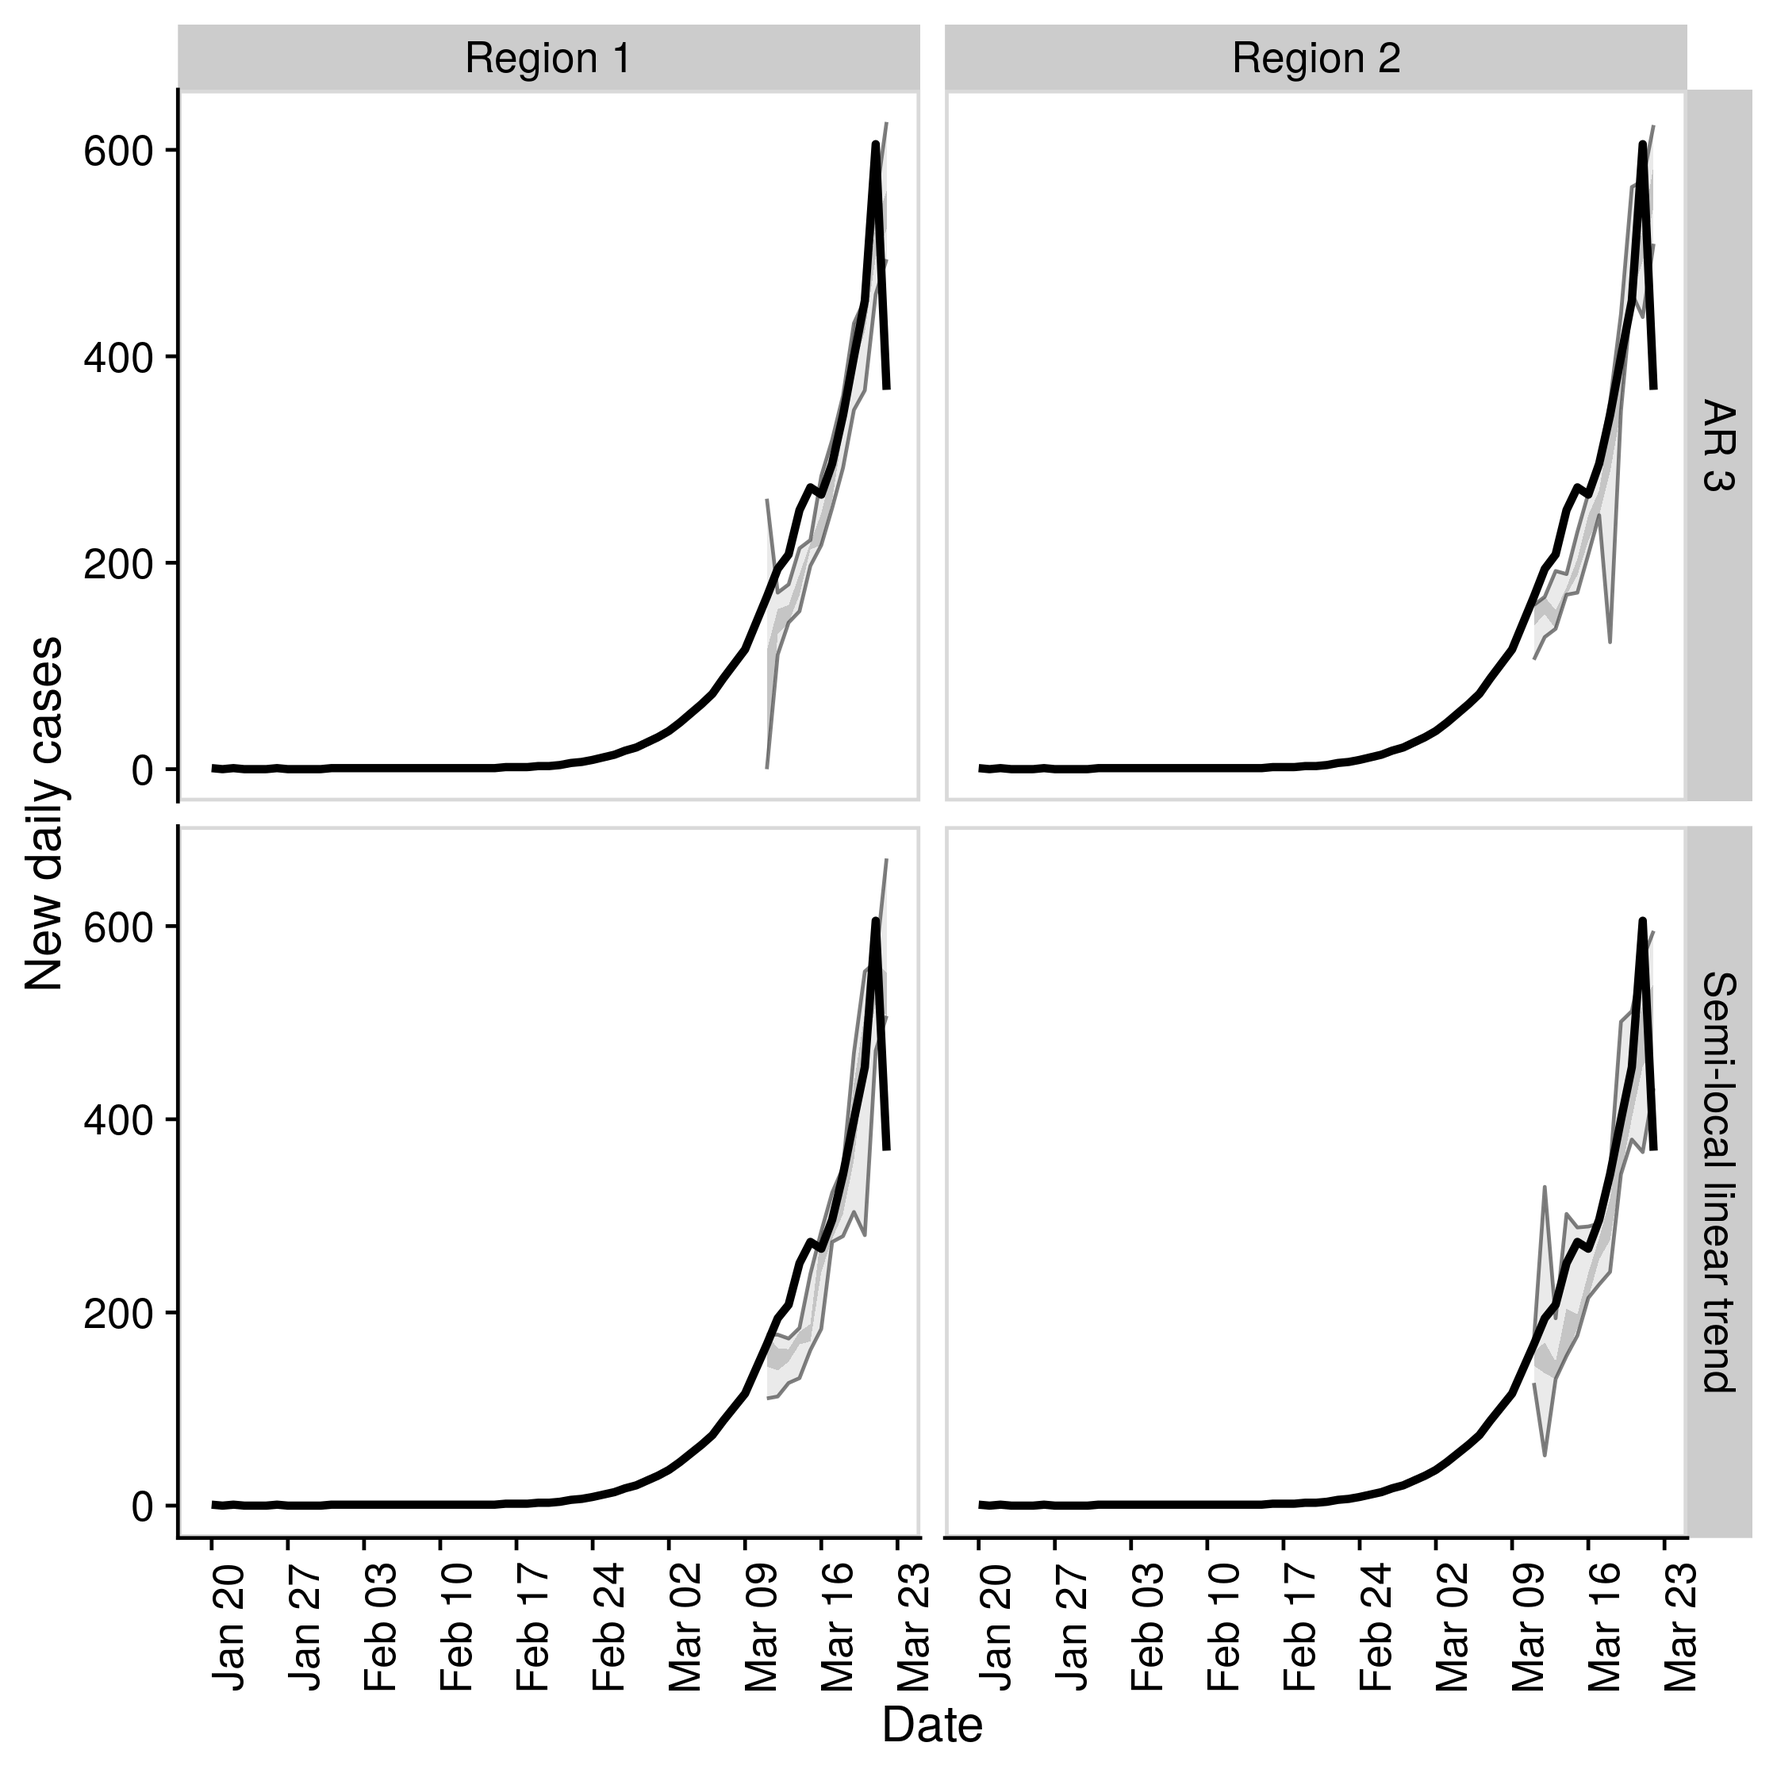
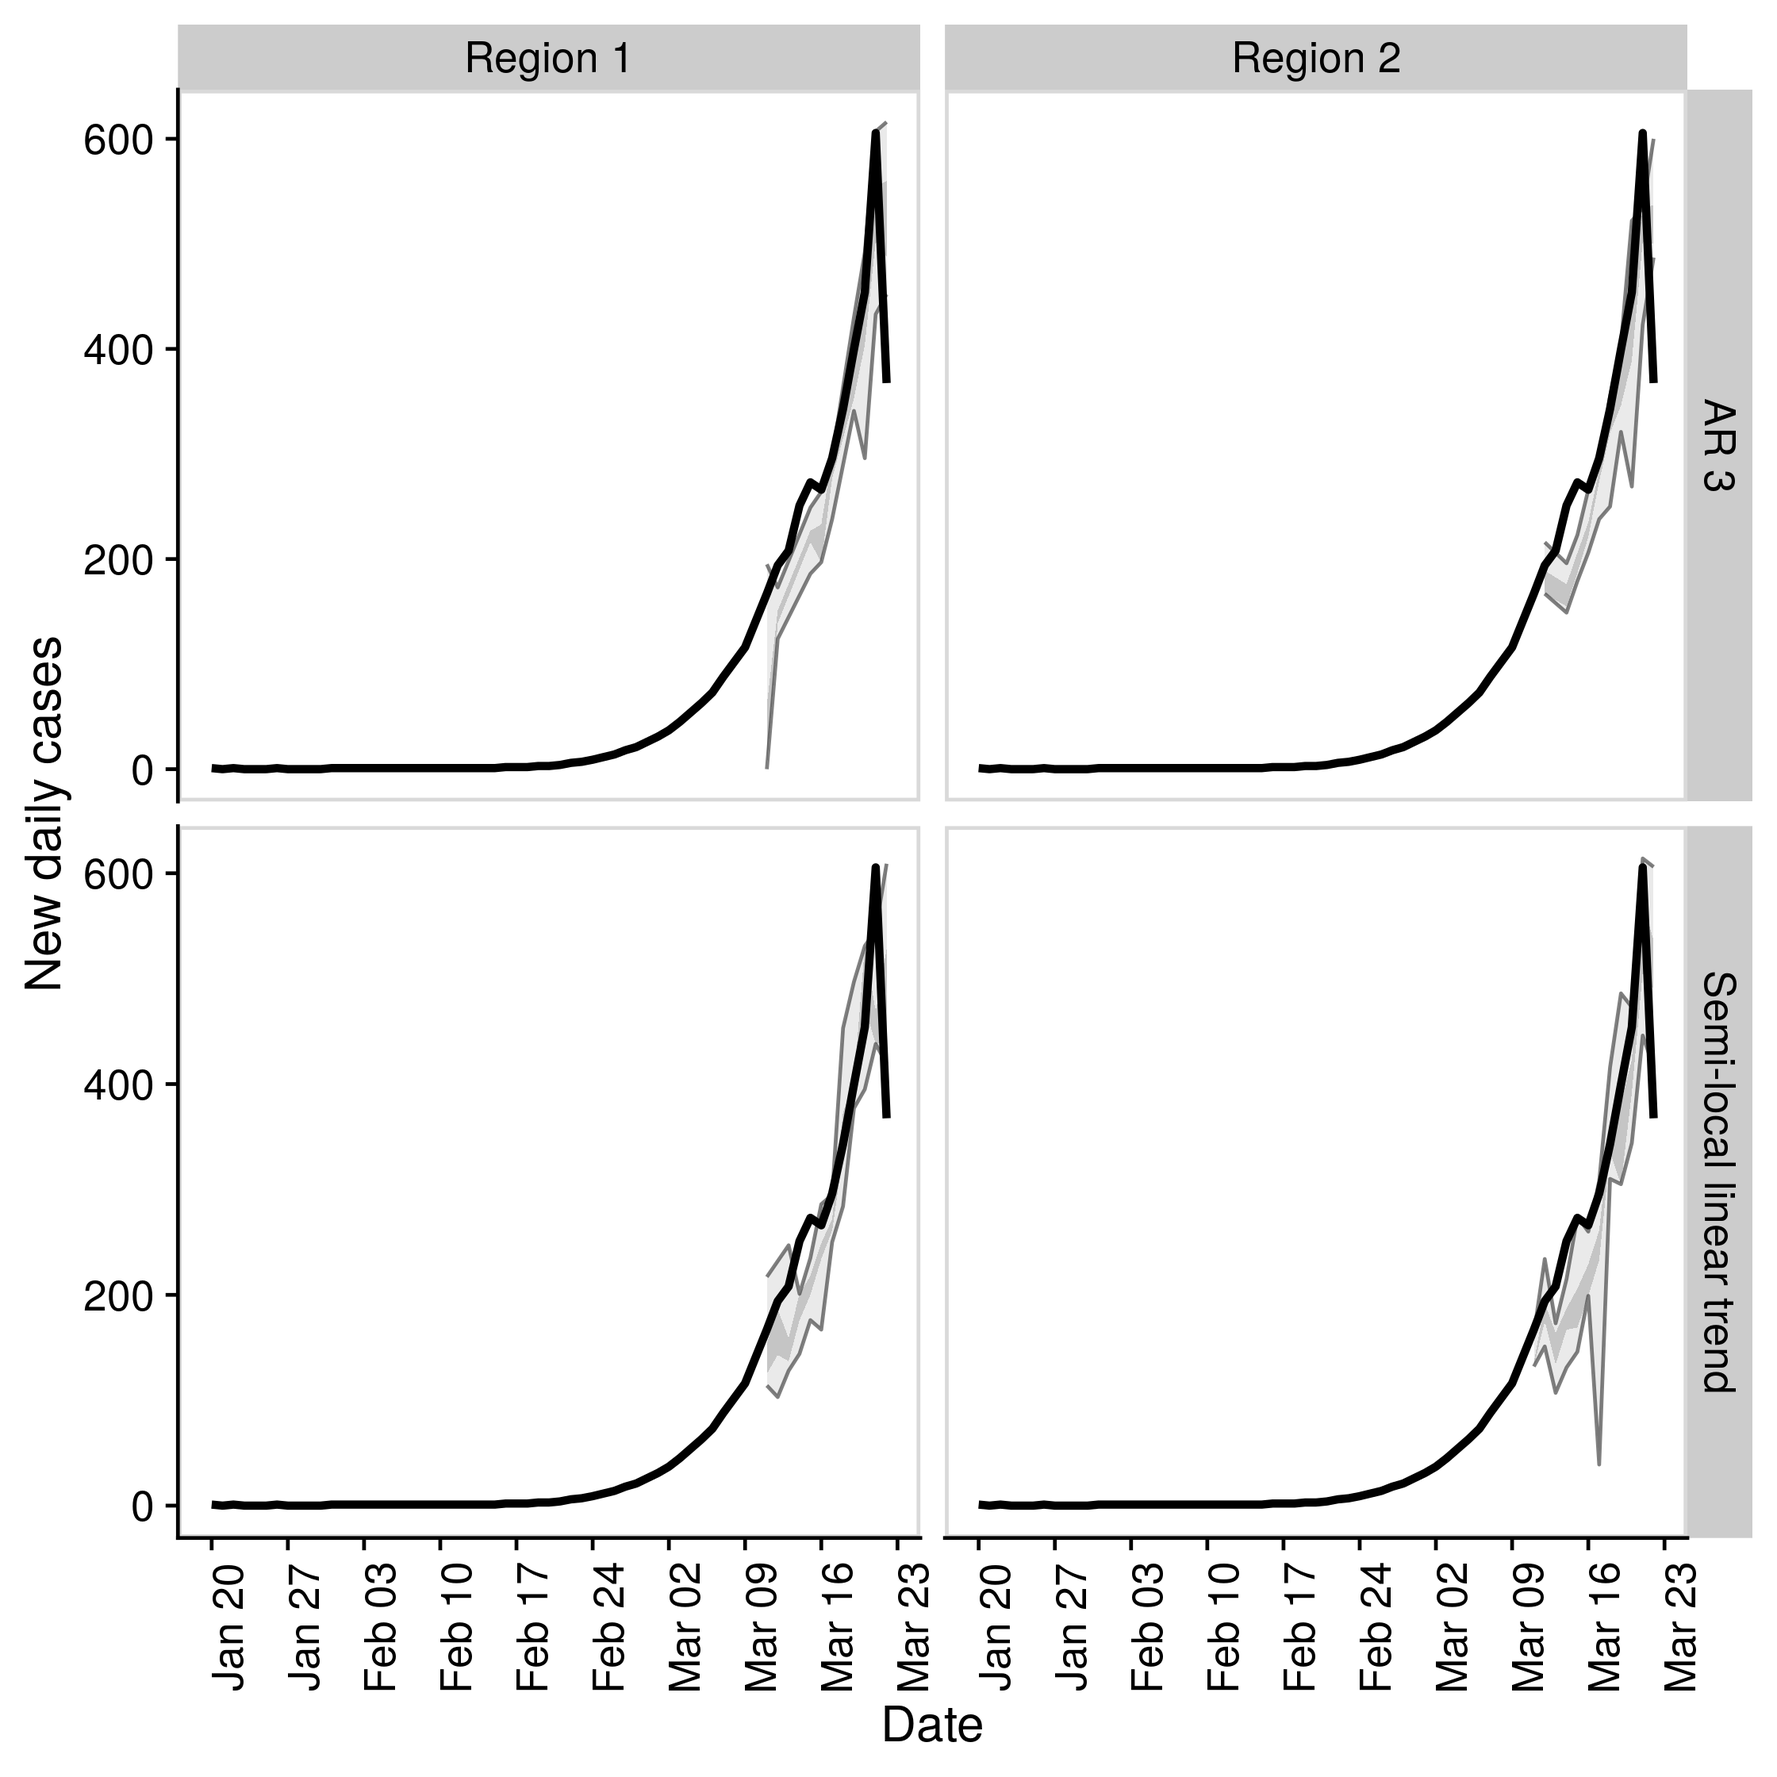
updated all docs in line with new changes

diff --git a/README.md b/README.md
@@ -53,15 +53,17 @@ obs_cases <- EpiSoon::example_obs_cases %>%
    dplyr::mutate(timeseries = "Region 2"))
 ```
 
-  - Define the list of `bsts` models to be compared.
+  - Define the list of models to be compared.
 
 <!-- end list -->
 
 ``` r
 models <- list("AR 3" =
-                  function(ss, y){bsts::AddAr(ss, y = y, lags = 3)},
-               "Semi-local linear trend" =
-                  function(ss, y){bsts::AddSemilocalLinearTrend(ss, y = y)})
+                    function(...) {EpiSoon::bsts_model(model =
+                     function(ss, y){bsts::AddAr(ss, y = y, lags = 3)}, ...)},
+                "Semi-local linear trend" =
+                function(...) {EpiSoon::bsts_model(model =
+                    function(ss, y){bsts::AddSemilocalLinearTrend(ss, y = y)}, ...)})
 ```
 
   - Compare models across timeseries (change the `future::plan` to do
@@ -79,102 +81,102 @@ forecasts <- compare_timeseries(obs_rts, obs_cases, models,
 
 forecasts
 #> $forecast_rts
-#> # A tibble: 525 x 12
+#> # A tibble: 497 x 12
 #>    timeseries model forecast_date date       horizon median  mean     sd bottom
 #>    <chr>      <chr> <chr>         <date>       <int>  <dbl> <dbl>  <dbl>  <dbl>
-#>  1 Region 1   AR 3  2020-03-04    2020-03-05       1  1.74   1.61 0.618   0.802
-#>  2 Region 1   AR 3  2020-03-04    2020-03-06       2  1.25   1.20 1.07    0    
-#>  3 Region 1   AR 3  2020-03-04    2020-03-07       3  0.965  1.07 1.15    0    
-#>  4 Region 1   AR 3  2020-03-04    2020-03-08       4  1.18   1.23 1.26    0    
-#>  5 Region 1   AR 3  2020-03-04    2020-03-09       5  1.28   1.41 1.61    0    
-#>  6 Region 1   AR 3  2020-03-04    2020-03-10       6  1.78   1.67 1.32    0    
-#>  7 Region 1   AR 3  2020-03-04    2020-03-11       7  2.03   1.96 1.40    0    
-#>  8 Region 1   AR 3  2020-03-05    2020-03-06       1  2.20   2.20 0.0402  2.15 
-#>  9 Region 1   AR 3  2020-03-05    2020-03-07       2  2.13   2.13 0.0432  2.04 
-#> 10 Region 1   AR 3  2020-03-05    2020-03-08       3  2.08   2.08 0.0371  2.03 
-#> # … with 515 more rows, and 3 more variables: lower <dbl>, upper <dbl>,
+#>  1 Region 1   AR 3  2020-03-04    2020-03-05       1  2.22  2.21  1.07     0   
+#>  2 Region 1   AR 3  2020-03-04    2020-03-06       2  1.54  1.73  1.52     0   
+#>  3 Region 1   AR 3  2020-03-04    2020-03-07       3  1.78  1.73  1.46     0   
+#>  4 Region 1   AR 3  2020-03-04    2020-03-08       4  1.25  1.51  1.79     0   
+#>  5 Region 1   AR 3  2020-03-04    2020-03-09       5  1.06  1.16  1.11     0   
+#>  6 Region 1   AR 3  2020-03-04    2020-03-10       6  0.946 0.864 0.845    0   
+#>  7 Region 1   AR 3  2020-03-04    2020-03-11       7  0.640 0.969 1.06     0   
+#>  8 Region 1   AR 3  2020-03-05    2020-03-06       1  2.22  2.22  0.0287   2.19
+#>  9 Region 1   AR 3  2020-03-05    2020-03-07       2  2.14  2.14  0.0136   2.12
+#> 10 Region 1   AR 3  2020-03-05    2020-03-08       3  2.07  2.08  0.0251   2.02
+#> # … with 487 more rows, and 3 more variables: lower <dbl>, upper <dbl>,
 #> #   top <dbl>
 #> 
 #> $rt_scores
-#> # A tibble: 415 x 10
-#>    timeseries model forecast_date date       horizon    dss    crps  logs  bias
-#>    <chr>      <chr> <chr>         <date>       <int>  <dbl>   <dbl> <dbl> <dbl>
-#>  1 Region 1   AR 3  2020-03-04    2020-03-05       1  0.189 0.436    1.05 0.100
-#>  2 Region 1   AR 3  2020-03-04    2020-03-06       2  0.981 0.631    1.47 0.200
-#>  3 Region 1   AR 3  2020-03-04    2020-03-07       3  1.15  0.786    1.75 0.200
-#>  4 Region 1   AR 3  2020-03-04    2020-03-08       4  0.885 0.616    1.63 0.200
-#>  5 Region 1   AR 3  2020-03-04    2020-03-09       5  1.03  0.677    1.84 0.200
-#>  6 Region 1   AR 3  2020-03-04    2020-03-10       6  0.529 0.416    1.51 0.5  
-#>  7 Region 1   AR 3  2020-03-04    2020-03-11       7  0.571 0.240    1.04 0.5  
-#>  8 Region 1   AR 3  2020-03-05    2020-03-06       1 -6.43  0.00756 -2.74 0.6  
-#>  9 Region 1   AR 3  2020-03-05    2020-03-07       2 -6.28  0.00974 -2.52 0.3  
-#> 10 Region 1   AR 3  2020-03-05    2020-03-08       3 -6.27  0.0167  -1.93 0.3  
-#> # … with 405 more rows, and 1 more variable: sharpness <dbl>
+#> # A tibble: 385 x 10
+#>    timeseries model forecast_date date       horizon     dss    crps   logs
+#>    <chr>      <chr> <chr>         <date>       <int>   <dbl>   <dbl>  <dbl>
+#>  1 Region 1   AR 3  2020-03-04    2020-03-05       1  0.0257 0.209    0.972
+#>  2 Region 1   AR 3  2020-03-04    2020-03-06       2  0.836  0.422    1.26 
+#>  3 Region 1   AR 3  2020-03-04    2020-03-07       3  0.746  0.408    1.47 
+#>  4 Region 1   AR 3  2020-03-04    2020-03-08       4  1.18   0.585    1.57 
+#>  5 Region 1   AR 3  2020-03-04    2020-03-09       5  0.836  0.618    1.55 
+#>  6 Region 1   AR 3  2020-03-04    2020-03-10       6  1.66   0.796    1.56 
+#>  7 Region 1   AR 3  2020-03-04    2020-03-11       7  1.09   0.774    1.79 
+#>  8 Region 1   AR 3  2020-03-05    2020-03-06       1 -6.31   0.0135  -2.43 
+#>  9 Region 1   AR 3  2020-03-05    2020-03-07       2 -8.53   0.00358 -3.23 
+#> 10 Region 1   AR 3  2020-03-05    2020-03-08       3 -6.01   0.0176  -2.24 
+#> # … with 375 more rows, and 2 more variables: bias <dbl>, sharpness <dbl>
 #> 
 #> $forecast_cases
-#> # A tibble: 415 x 12
-#>    timeseries model forecast_date date       horizon median  mean    sd bottom
-#>    <chr>      <chr> <chr>         <date>       <int>  <dbl> <dbl> <dbl>  <dbl>
-#>  1 Region 1   AR 3  2020-03-04    2020-03-05       1   40    40.5 17.8      15
-#>  2 Region 1   AR 3  2020-03-04    2020-03-06       2   36    40   36.2       0
-#>  3 Region 1   AR 3  2020-03-04    2020-03-07       3   37.5  39.7 41.9       0
-#>  4 Region 1   AR 3  2020-03-04    2020-03-08       4   38.5  47.4 49.1       0
-#>  5 Region 1   AR 3  2020-03-04    2020-03-09       5   49.5  67   82.5       0
-#>  6 Region 1   AR 3  2020-03-04    2020-03-10       6   68    83.8 86.5       0
-#>  7 Region 1   AR 3  2020-03-04    2020-03-11       7   87.5  94.8 84.1       0
-#>  8 Region 1   AR 3  2020-03-05    2020-03-06       1   65.5  65    7.09     52
-#>  9 Region 1   AR 3  2020-03-05    2020-03-07       2   78    78.3  3.86     72
-#> 10 Region 1   AR 3  2020-03-05    2020-03-08       3   92.5  93.4  9.25     75
-#> # … with 405 more rows, and 3 more variables: lower <dbl>, upper <dbl>,
+#> # A tibble: 385 x 12
+#>    timeseries model forecast_date date       horizon median  mean     sd bottom
+#>    <chr>      <chr> <chr>         <date>       <int>  <dbl> <dbl>  <dbl>  <dbl>
+#>  1 Region 1   AR 3  2020-03-04    2020-03-05       1   58.5  57.8  27.2       0
+#>  2 Region 1   AR 3  2020-03-04    2020-03-06       2   44.5  54.7  48.1       0
+#>  3 Region 1   AR 3  2020-03-04    2020-03-07       3   70.5  66.2  55.9       0
+#>  4 Region 1   AR 3  2020-03-04    2020-03-08       4   65    80.1 106.        0
+#>  5 Region 1   AR 3  2020-03-04    2020-03-09       5   62    56.1  49.7       0
+#>  6 Region 1   AR 3  2020-03-04    2020-03-10       6   39.5  47.2  51.7       0
+#>  7 Region 1   AR 3  2020-03-04    2020-03-11       7   57    65.9  71.7       0
+#>  8 Region 1   AR 3  2020-03-05    2020-03-06       1   65.5  66.4   6.79     56
+#>  9 Region 1   AR 3  2020-03-05    2020-03-07       2   78.5  77.7   6.91     64
+#> 10 Region 1   AR 3  2020-03-05    2020-03-08       3   86.5  89.3   9.49     76
+#> # … with 375 more rows, and 3 more variables: lower <dbl>, upper <dbl>,
 #> #   top <dbl>
 #> 
 #> $case_scores
-#> # A tibble: 415 x 11
+#> # A tibble: 385 x 11
 #>    timeseries model sample forecast_date date       horizon   dss  crps  logs
 #>    <chr>      <chr> <chr>  <chr>         <date>       <int> <dbl> <dbl> <dbl>
-#>  1 Region 1   AR 3  1      2020-03-04    2020-03-05       1  7.43 15.5   4.81
-#>  2 Region 1   AR 3  1      2020-03-04    2020-03-06       2  8.00 21.5   5.05
-#>  3 Region 1   AR 3  1      2020-03-04    2020-03-07       3  8.84 33.5   5.42
-#>  4 Region 1   AR 3  1      2020-03-04    2020-03-08       4  9.06 34.5   5.38
-#>  5 Region 1   AR 3  1      2020-03-04    2020-03-09       5  9.11 46.9   6.35
-#>  6 Region 1   AR 3  1      2020-03-04    2020-03-10       6  9.31 42.9   5.88
-#>  7 Region 1   AR 3  1      2020-03-04    2020-03-11       7  9.58 47.2   5.86
-#>  8 Region 1   AR 3  1      2020-03-05    2020-03-06       1  5.23  5.04  3.51
-#>  9 Region 1   AR 3  1      2020-03-05    2020-03-07       2  9.61  7.67  5.37
-#> 10 Region 1   AR 3  1      2020-03-05    2020-03-08       3  5.30  4.96  3.54
-#> # … with 405 more rows, and 2 more variables: bias <dbl>, sharpness <dbl>
+#>  1 Region 1   AR 3  1      2020-03-04    2020-03-05       1  6.54  5.18  4.02
+#>  2 Region 1   AR 3  1      2020-03-04    2020-03-06       2  7.80 15.0   4.92
+#>  3 Region 1   AR 3  1      2020-03-04    2020-03-07       3  8.11 16.9   5.16
+#>  4 Region 1   AR 3  1      2020-03-04    2020-03-08       4  9.26 28.7   5.36
+#>  5 Region 1   AR 3  1      2020-03-04    2020-03-09       5  9.32 38.2   5.48
+#>  6 Region 1   AR 3  1      2020-03-04    2020-03-10       6 11.5  69.6   6.21
+#>  7 Region 1   AR 3  1      2020-03-04    2020-03-11       7 10.7  71.0   6.17
+#>  8 Region 1   AR 3  1      2020-03-05    2020-03-06       1  4.78  4.18  3.39
+#>  9 Region 1   AR 3  1      2020-03-05    2020-03-07       2  6.23  6.91  3.86
+#> 10 Region 1   AR 3  1      2020-03-05    2020-03-08       3  6.39  8.49  3.96
+#> # … with 375 more rows, and 2 more variables: bias <dbl>, sharpness <dbl>
 #> 
 #> $raw_rt_forecast
-#> # A tibble: 5,250 x 8
+#> # A tibble: 4,970 x 8
 #>    timeseries model obs_sample forecast_date sample date          rt horizon
 #>    <chr>      <chr> <chr>      <chr>          <int> <date>     <dbl>   <int>
-#>  1 Region 1   AR 3  1          2020-03-04         1 2020-03-05 1.76        1
-#>  2 Region 1   AR 3  1          2020-03-04         2 2020-03-05 1.71        1
-#>  3 Region 1   AR 3  1          2020-03-04         3 2020-03-05 0.802       1
-#>  4 Region 1   AR 3  1          2020-03-04         4 2020-03-05 2.09        1
-#>  5 Region 1   AR 3  1          2020-03-04         5 2020-03-05 1.88        1
-#>  6 Region 1   AR 3  1          2020-03-04         6 2020-03-05 2.78        1
-#>  7 Region 1   AR 3  1          2020-03-04         7 2020-03-05 1.91        1
-#>  8 Region 1   AR 3  1          2020-03-04         8 2020-03-05 1.17        1
-#>  9 Region 1   AR 3  1          2020-03-04         9 2020-03-05 1.05        1
-#> 10 Region 1   AR 3  1          2020-03-04        10 2020-03-05 0.929       1
-#> # … with 5,240 more rows
+#>  1 Region 1   AR 3  1          2020-03-04         1 2020-03-05  2.29       1
+#>  2 Region 1   AR 3  1          2020-03-04         2 2020-03-05  2.15       1
+#>  3 Region 1   AR 3  1          2020-03-04         3 2020-03-05  1.59       1
+#>  4 Region 1   AR 3  1          2020-03-04         4 2020-03-05  2.54       1
+#>  5 Region 1   AR 3  1          2020-03-04         5 2020-03-05  3.03       1
+#>  6 Region 1   AR 3  1          2020-03-04         6 2020-03-05  3.03       1
+#>  7 Region 1   AR 3  1          2020-03-04         7 2020-03-05  0          1
+#>  8 Region 1   AR 3  1          2020-03-04         8 2020-03-05  1.92       1
+#>  9 Region 1   AR 3  1          2020-03-04         9 2020-03-05  1.61       1
+#> 10 Region 1   AR 3  1          2020-03-04        10 2020-03-05  3.96       1
+#> # … with 4,960 more rows
 #> 
 #> $raw_case_forecast
-#> # A tibble: 4,150 x 8
+#> # A tibble: 3,850 x 8
 #>    timeseries model obs_sample forecast_date sample date       cases horizon
 #>    <chr>      <chr> <chr>      <chr>          <dbl> <date>     <int>   <int>
-#>  1 Region 1   AR 3  1          2020-03-04         1 2020-03-05    59       1
-#>  2 Region 1   AR 3  1          2020-03-04         1 2020-03-06     9       2
-#>  3 Region 1   AR 3  1          2020-03-04         1 2020-03-07     0       3
-#>  4 Region 1   AR 3  1          2020-03-04         1 2020-03-08     0       4
-#>  5 Region 1   AR 3  1          2020-03-04         1 2020-03-09    41       5
-#>  6 Region 1   AR 3  1          2020-03-04         1 2020-03-10    60       6
-#>  7 Region 1   AR 3  1          2020-03-04         1 2020-03-11   115       7
-#>  8 Region 1   AR 3  1          2020-03-04         2 2020-03-05    43       1
-#>  9 Region 1   AR 3  1          2020-03-04         2 2020-03-06    51       2
-#> 10 Region 1   AR 3  1          2020-03-04         2 2020-03-07    59       3
-#> # … with 4,140 more rows
+#>  1 Region 1   AR 3  1          2020-03-04         1 2020-03-05    52       1
+#>  2 Region 1   AR 3  1          2020-03-04         1 2020-03-06    84       2
+#>  3 Region 1   AR 3  1          2020-03-04         1 2020-03-07    95       3
+#>  4 Region 1   AR 3  1          2020-03-04         1 2020-03-08   100       4
+#>  5 Region 1   AR 3  1          2020-03-04         1 2020-03-09   120       5
+#>  6 Region 1   AR 3  1          2020-03-04         1 2020-03-10   151       6
+#>  7 Region 1   AR 3  1          2020-03-04         1 2020-03-11   195       7
+#>  8 Region 1   AR 3  1          2020-03-04         2 2020-03-05    62       1
+#>  9 Region 1   AR 3  1          2020-03-04         2 2020-03-06    72       2
+#> 10 Region 1   AR 3  1          2020-03-04         2 2020-03-07    65       3
+#> # … with 3,840 more rows
 ```
 
   - Plot an evaluation of Rt forecasts using iterative fitting.
@@ -210,16 +212,16 @@ summarise_scores(forecasts$case_scores)
 #> # A tibble: 10 x 9
 #>    score     model                 bottom lower median   mean upper   top     sd
 #>    <chr>     <chr>                  <dbl> <dbl>  <dbl>  <dbl> <dbl> <dbl>  <dbl>
-#>  1 bias      AR 3                    0     0     0.100  0.287  0.5    1    0.371
-#>  2 bias      Semi-local linear tr…   0     0     0.100  0.298  0.5    1    0.355
-#>  3 crps      AR 3                    3.54 10.7  22.1   34.2   39.3  157.  37.5  
-#>  4 crps      Semi-local linear tr…   2.93  9.39 18.6   32.9   37.2  164.  39.5  
-#>  5 dss       AR 3                    5.02  7.06  9.50  14.1   15.4   52.4 14.2  
-#>  6 dss       Semi-local linear tr…   4.52  6.77  8.46  13.0   13.6   40.1 15.0  
-#>  7 logs      AR 3                    3.46  4.43  5.30  11.6    7.77  75.1 21.6  
-#>  8 logs      Semi-local linear tr…   3.32  4.31  5.04   8.88   7.25  39.5 13.6  
-#>  9 sharpness AR 3                    4.45 10.4  16.3   19.4   25.2   55.4 13.8  
-#> 10 sharpness Semi-local linear tr…   5.19 11.1  15.6   19.8   26.7   51.9 12.3
+#>  1 bias      AR 3                    0     0     0.100  0.321  0.7    1    0.375
+#>  2 bias      Semi-local linear tr…   0     0     0.200  0.311  0.6    1    0.352
+#>  3 crps      AR 3                    4.42 11.5  21.1   37.1   46.0  160.  40.5  
+#>  4 crps      Semi-local linear tr…   2.38  8.91 17.8   32.1   37.9  158.  38.5  
+#>  5 dss       AR 3                    5.16  7.10  8.99  14.6   16.1   64.5 15.1  
+#>  6 dss       Semi-local linear tr…   4.27  6.54  8.13  12.9   11.7   62.5 14.9  
+#>  7 logs      AR 3                    3.57  4.48  5.02  10.2    8.36  45.6 16.9  
+#>  8 logs      Semi-local linear tr…   3.13  4.28  4.92   9.23   6.34  66.3 15.0  
+#>  9 sharpness AR 3                    5.93 11.9  18.5   21.5   27.4   57.0 13.4  
+#> 10 sharpness Semi-local linear tr…   5.19 11.1  17.0   20.5   25.8   57.5 13.5
 ```
 
 ## Docker
